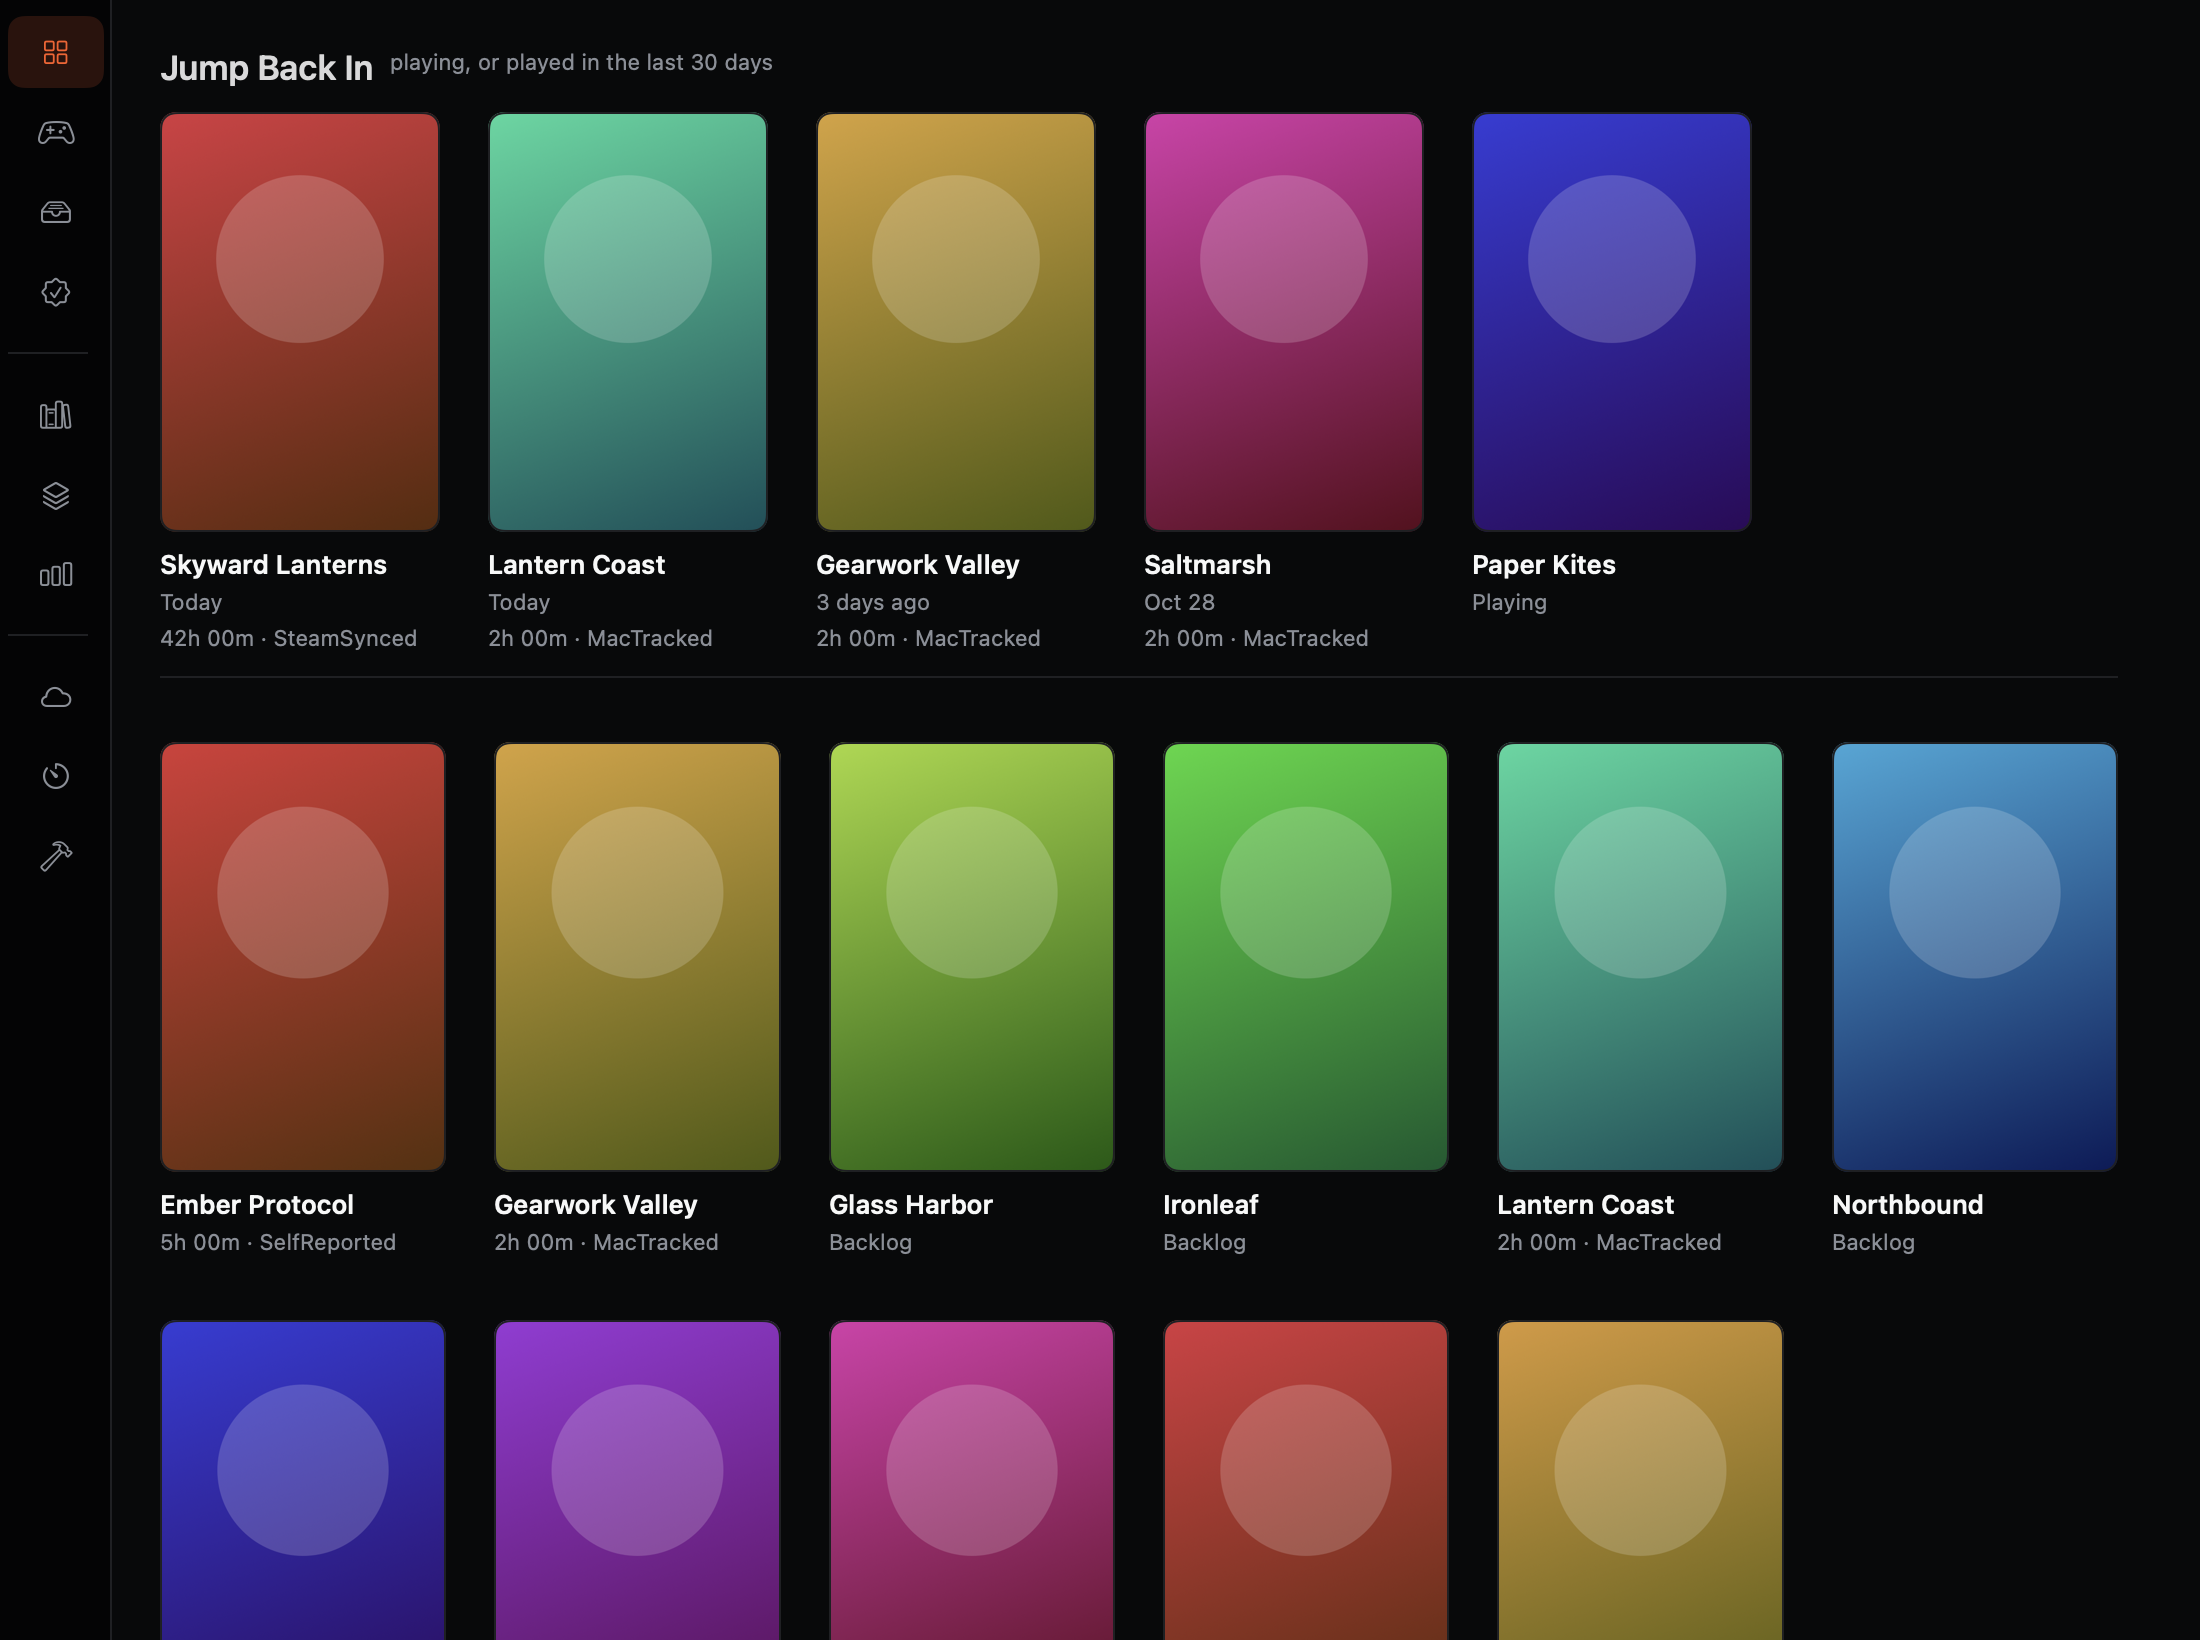
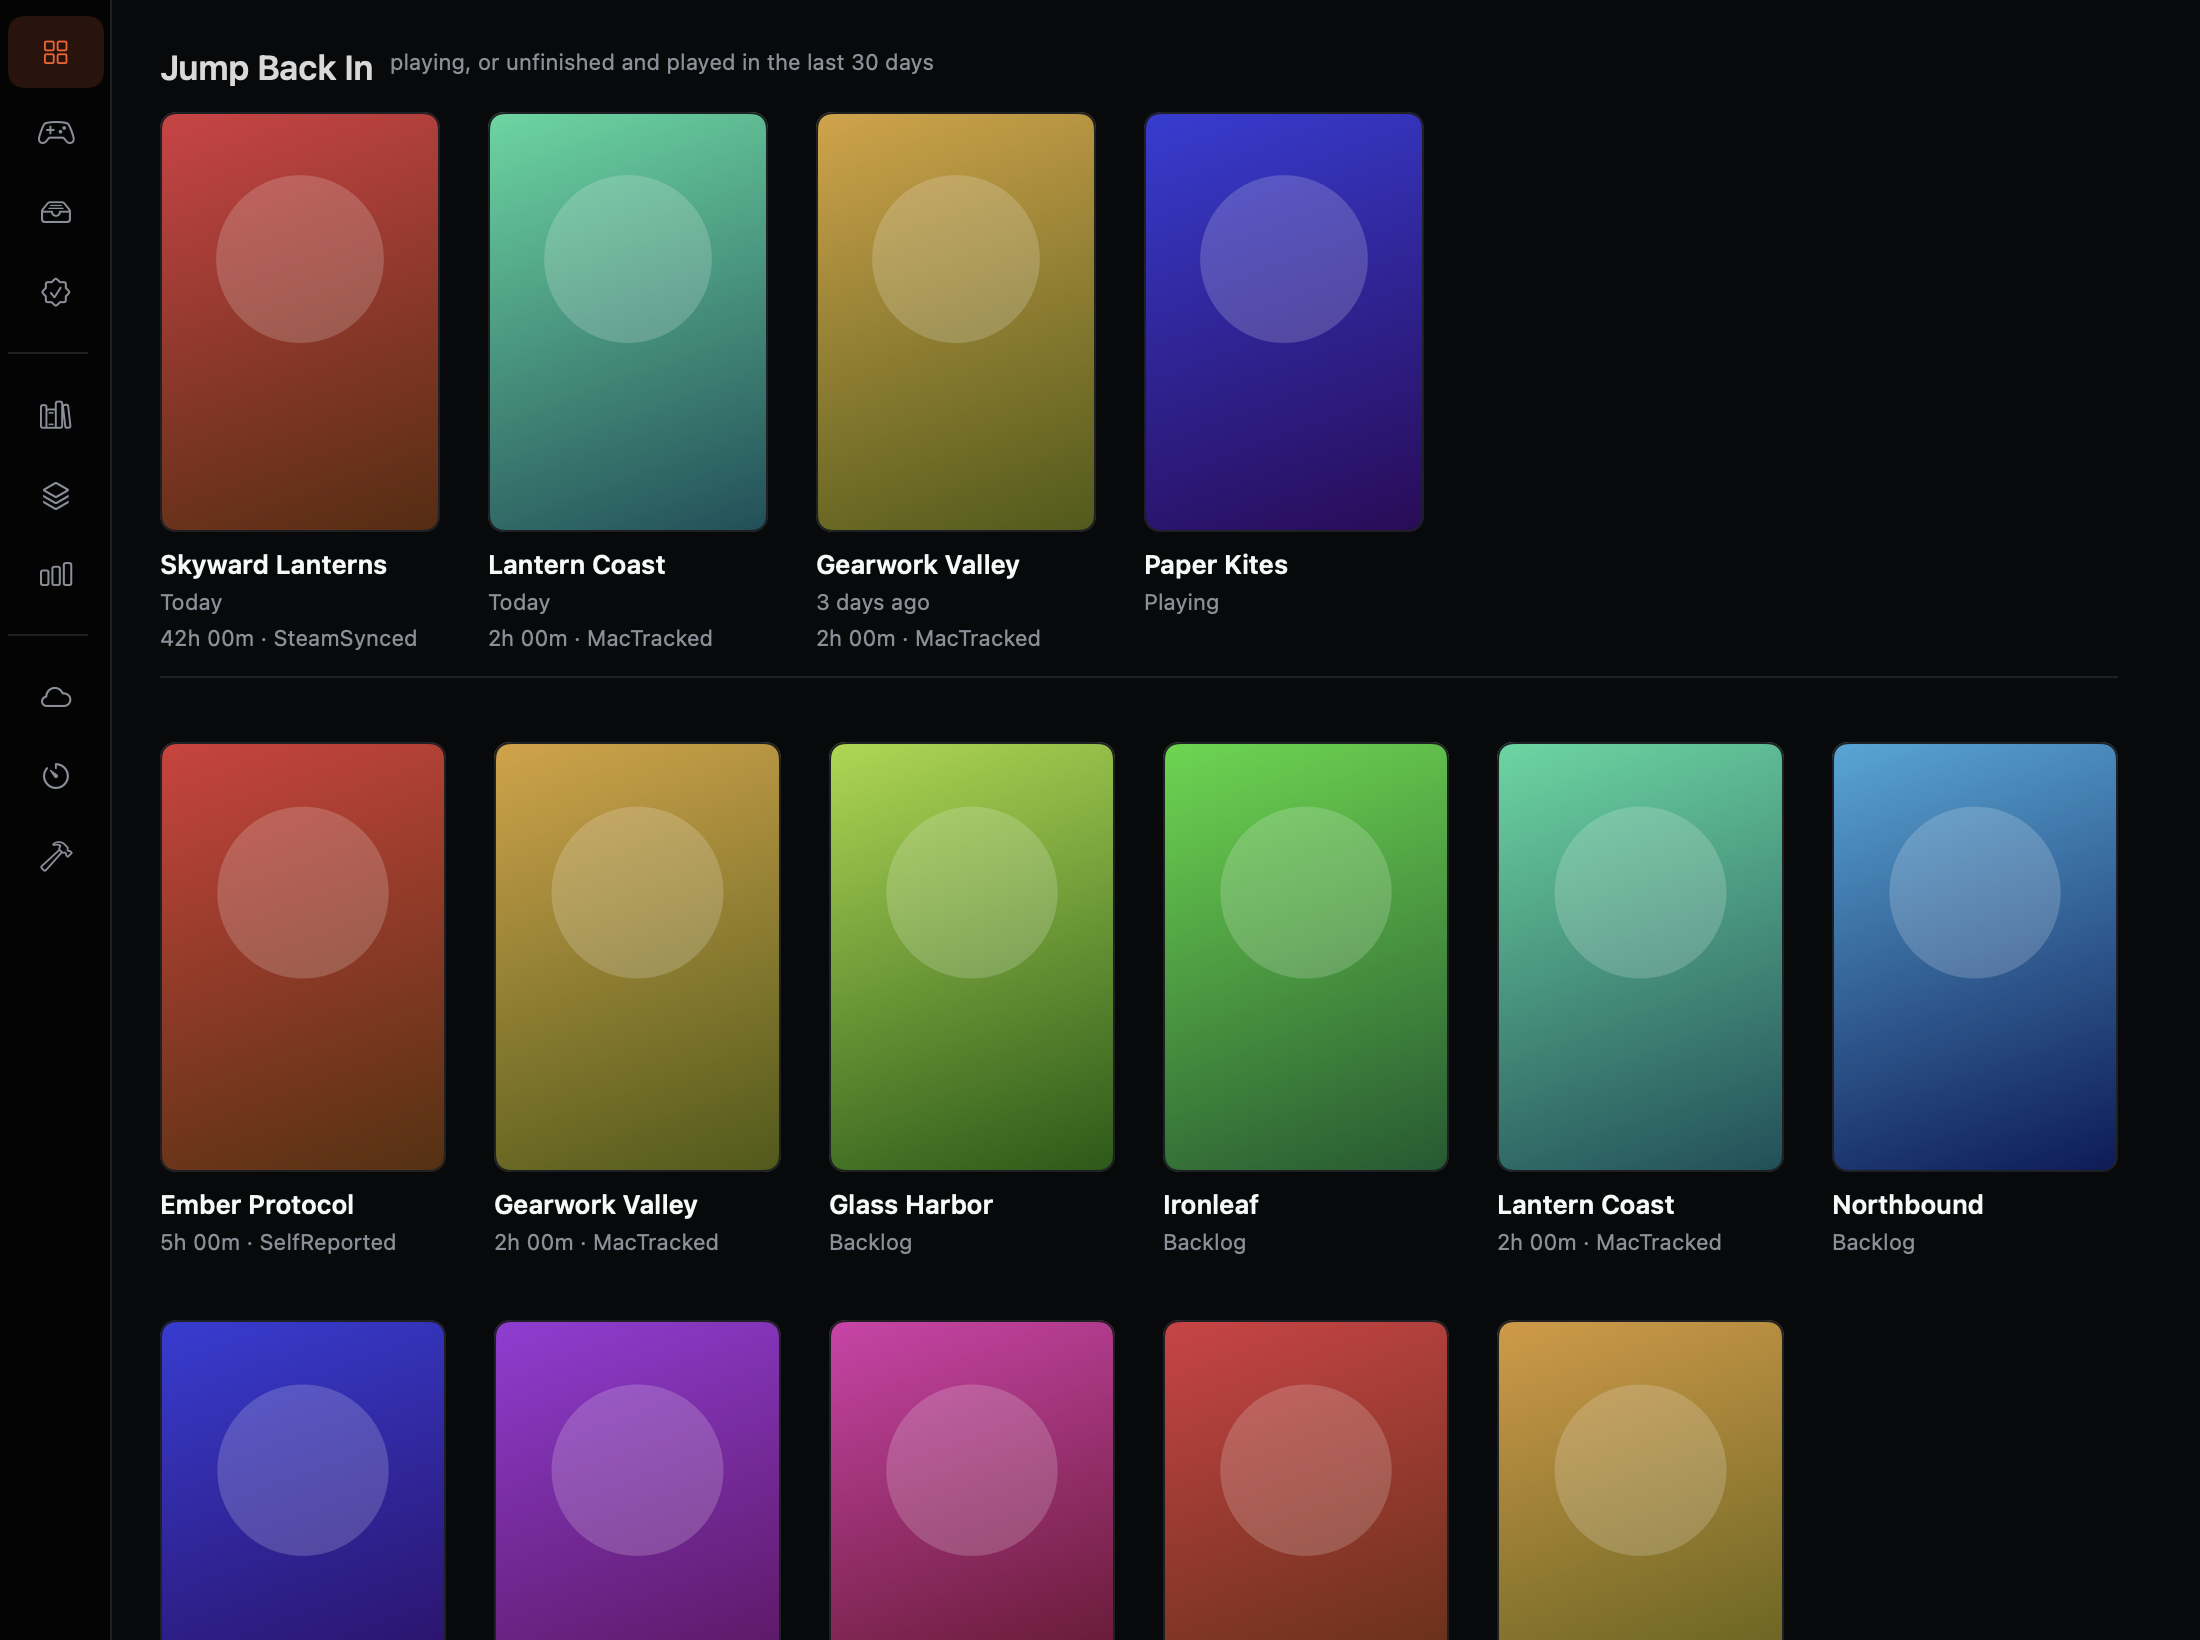
fix(library): keep Completed games off Jump Back In unless set to Playing
J.R ruling 2026-11-09: shelf = Playing, or played within 30 days and not
Completed. A fresh session alone never brings a Completed game back.

Changed region(s): [[0.4945, 0.0622, 0.8036, 0.4043], [0.2473, 0.0311, 0.4327, 0.0622]]

diff --git a/PlayriteTests/Features/Library/JumpBackInTests.swift b/PlayriteTests/Features/Library/JumpBackInTests.swift
@@ -39,7 +39,7 @@ struct JumpBackInTests {
         let repository = try MockLibraryRepository()
         let playingIdle = game("Playing, no sessions", status: .playing, in: repository)
         let fiveDays = game("Five days", sessionEndedDaysAgo: 5, in: repository)
-        let yesterday = game("Yesterday", status: .completed, sessionEndedDaysAgo: 1, in: repository)
+        let yesterday = game("Yesterday", status: .backlog, sessionEndedDaysAgo: 1, in: repository)
         _ = game("Forty days", sessionEndedDaysAgo: 40, in: repository)
         _ = game("Never played", in: repository)
         let shelf = JumpBackIn.games(from: [playingIdle, fiveDays, yesterday], now: now)
@@ -50,6 +50,14 @@ struct JumpBackInTests {
             "Five days",
             "Playing, no sessions",
         ])
+    }
+
+    @Test func aCompletedGameLeavesTheShelfUntilItIsPlayingAgain() throws {
+        let repository = try MockLibraryRepository()
+        let finished = game("Finished", status: .completed, sessionEndedDaysAgo: 0.1, in: repository)
+        #expect(JumpBackIn.games(from: [finished], now: now).isEmpty)
+        finished.status = .playing
+        #expect(JumpBackIn.games(from: [finished], now: now).map(\.title) == ["Finished"])
     }
 
     @Test func emptyLibraryMeansHiddenShelf() throws {

diff --git a/Playrite/Features/Library/Models/JumpBackIn.swift b/Playrite/Features/Library/Models/JumpBackIn.swift
@@ -1,7 +1,9 @@
 import Foundation
 
 /// The "Jump Back In" shelf at the top of All Games: games marked Playing, or with a recorded session in the last
-/// 30 days, most recent session first. Each card says quietly when it was last played and the time played from its
+/// 30 days and not Completed (J.R, 2026-11-09), most recent session first. A Completed game comes back only when its
+/// status is set to Playing; a fresh session alone never brings it back. Each card says quietly when it was last played
+/// and the time played from its
 /// largest real source, labelled; sources are never added together (ADR 0006).
 enum JumpBackIn {
     /// How far back a recorded session still counts.
@@ -18,7 +20,8 @@ enum JumpBackIn {
         let cutoff = now.addingTimeInterval(-window)
         return library
             .filter { game in
-                game.status == .playing || latestSessionEnd(game).map { $0 >= cutoff } == true
+                game.status == .playing
+                    || (game.status != .completed && latestSessionEnd(game).map { $0 >= cutoff } == true)
             }
             .sorted { lhs, rhs in
                 switch (lastActivity(lhs), lastActivity(rhs)) {

diff --git a/Playrite/Features/Library/Views/JumpBackInShelf.swift b/Playrite/Features/Library/Views/JumpBackInShelf.swift
@@ -10,7 +10,7 @@ struct JumpBackInShelf: View {
     var body: some View {
         if !games.isEmpty {
             VStack(alignment: .leading, spacing: DesignTokens.Spacing.md) {
-                SectionHeader(title: "Jump Back In", caption: "playing, or played in the last 30 days")
+                SectionHeader(title: "Jump Back In", caption: "playing, or unfinished and played in the last 30 days")
                 ScrollView(.horizontal, showsIndicators: false) {
                     LazyHStack(alignment: .top, spacing: DesignTokens.Spacing.xl) {
                         ForEach(games) { game in

diff --git a/docs/PROGRESS.md b/docs/PROGRESS.md
@@ -912,8 +912,10 @@ approved by J.R when he set the rule). 333 tests (+6).
   432 tests (+6); lint clean.
 - ✅ **Renders inspected** (`docs/design/jump-back-in/`). The first render cut off the single line, so the shelf now
   uses the card's two-line form.
-- ⚠ No live run against J.R's library (no Play clicks, per the brief). As written, a Completed game played in the
-  last 30 days appears; that is easy to narrow if he prefers.
+- ⚠ No live run against J.R's library (no Play clicks, per the brief).
+- ✅🧪 **Completed games rule (J.R ruling, Mon 2026-11-09 09:36):** the shelf is games whose status is Playing, or
+  played within 30 days **and not Completed**. A Completed game comes back only when its status is set to Playing; a
+  fresh session alone never brings it back. New test: `aCompletedGameLeavesTheShelfUntilItIsPlayingAgain`. 433 tests.
 
 ## Status by branch (stacked, merge in this order)
 | # | Branch | Built | Compiles | Tests | Pushed |

diff --git a/docs/decisions/0033-jump-back-in-shelf.md b/docs/decisions/0033-jump-back-in-shelf.md
@@ -26,6 +26,7 @@ up where you left off should take no searching.
 
 ## Consequences
 - Full value on defaults (zero-tinker, ADR 0016).
-- A Completed game played in the last 30 days appears, as the rule is written. If J.R wants the shelf limited to
-  unfinished games, it's a one-line filter.
+- **Completed games (J.R ruling, 2026-11-09):** the shelf is games whose status is Playing, or played within 30 days
+  and not Completed. A Completed game leaves the shelf and comes back only when the user sets it to Playing; a fresh
+  session alone never brings it back.
 - Renders in `docs/design/jump-back-in/`.
